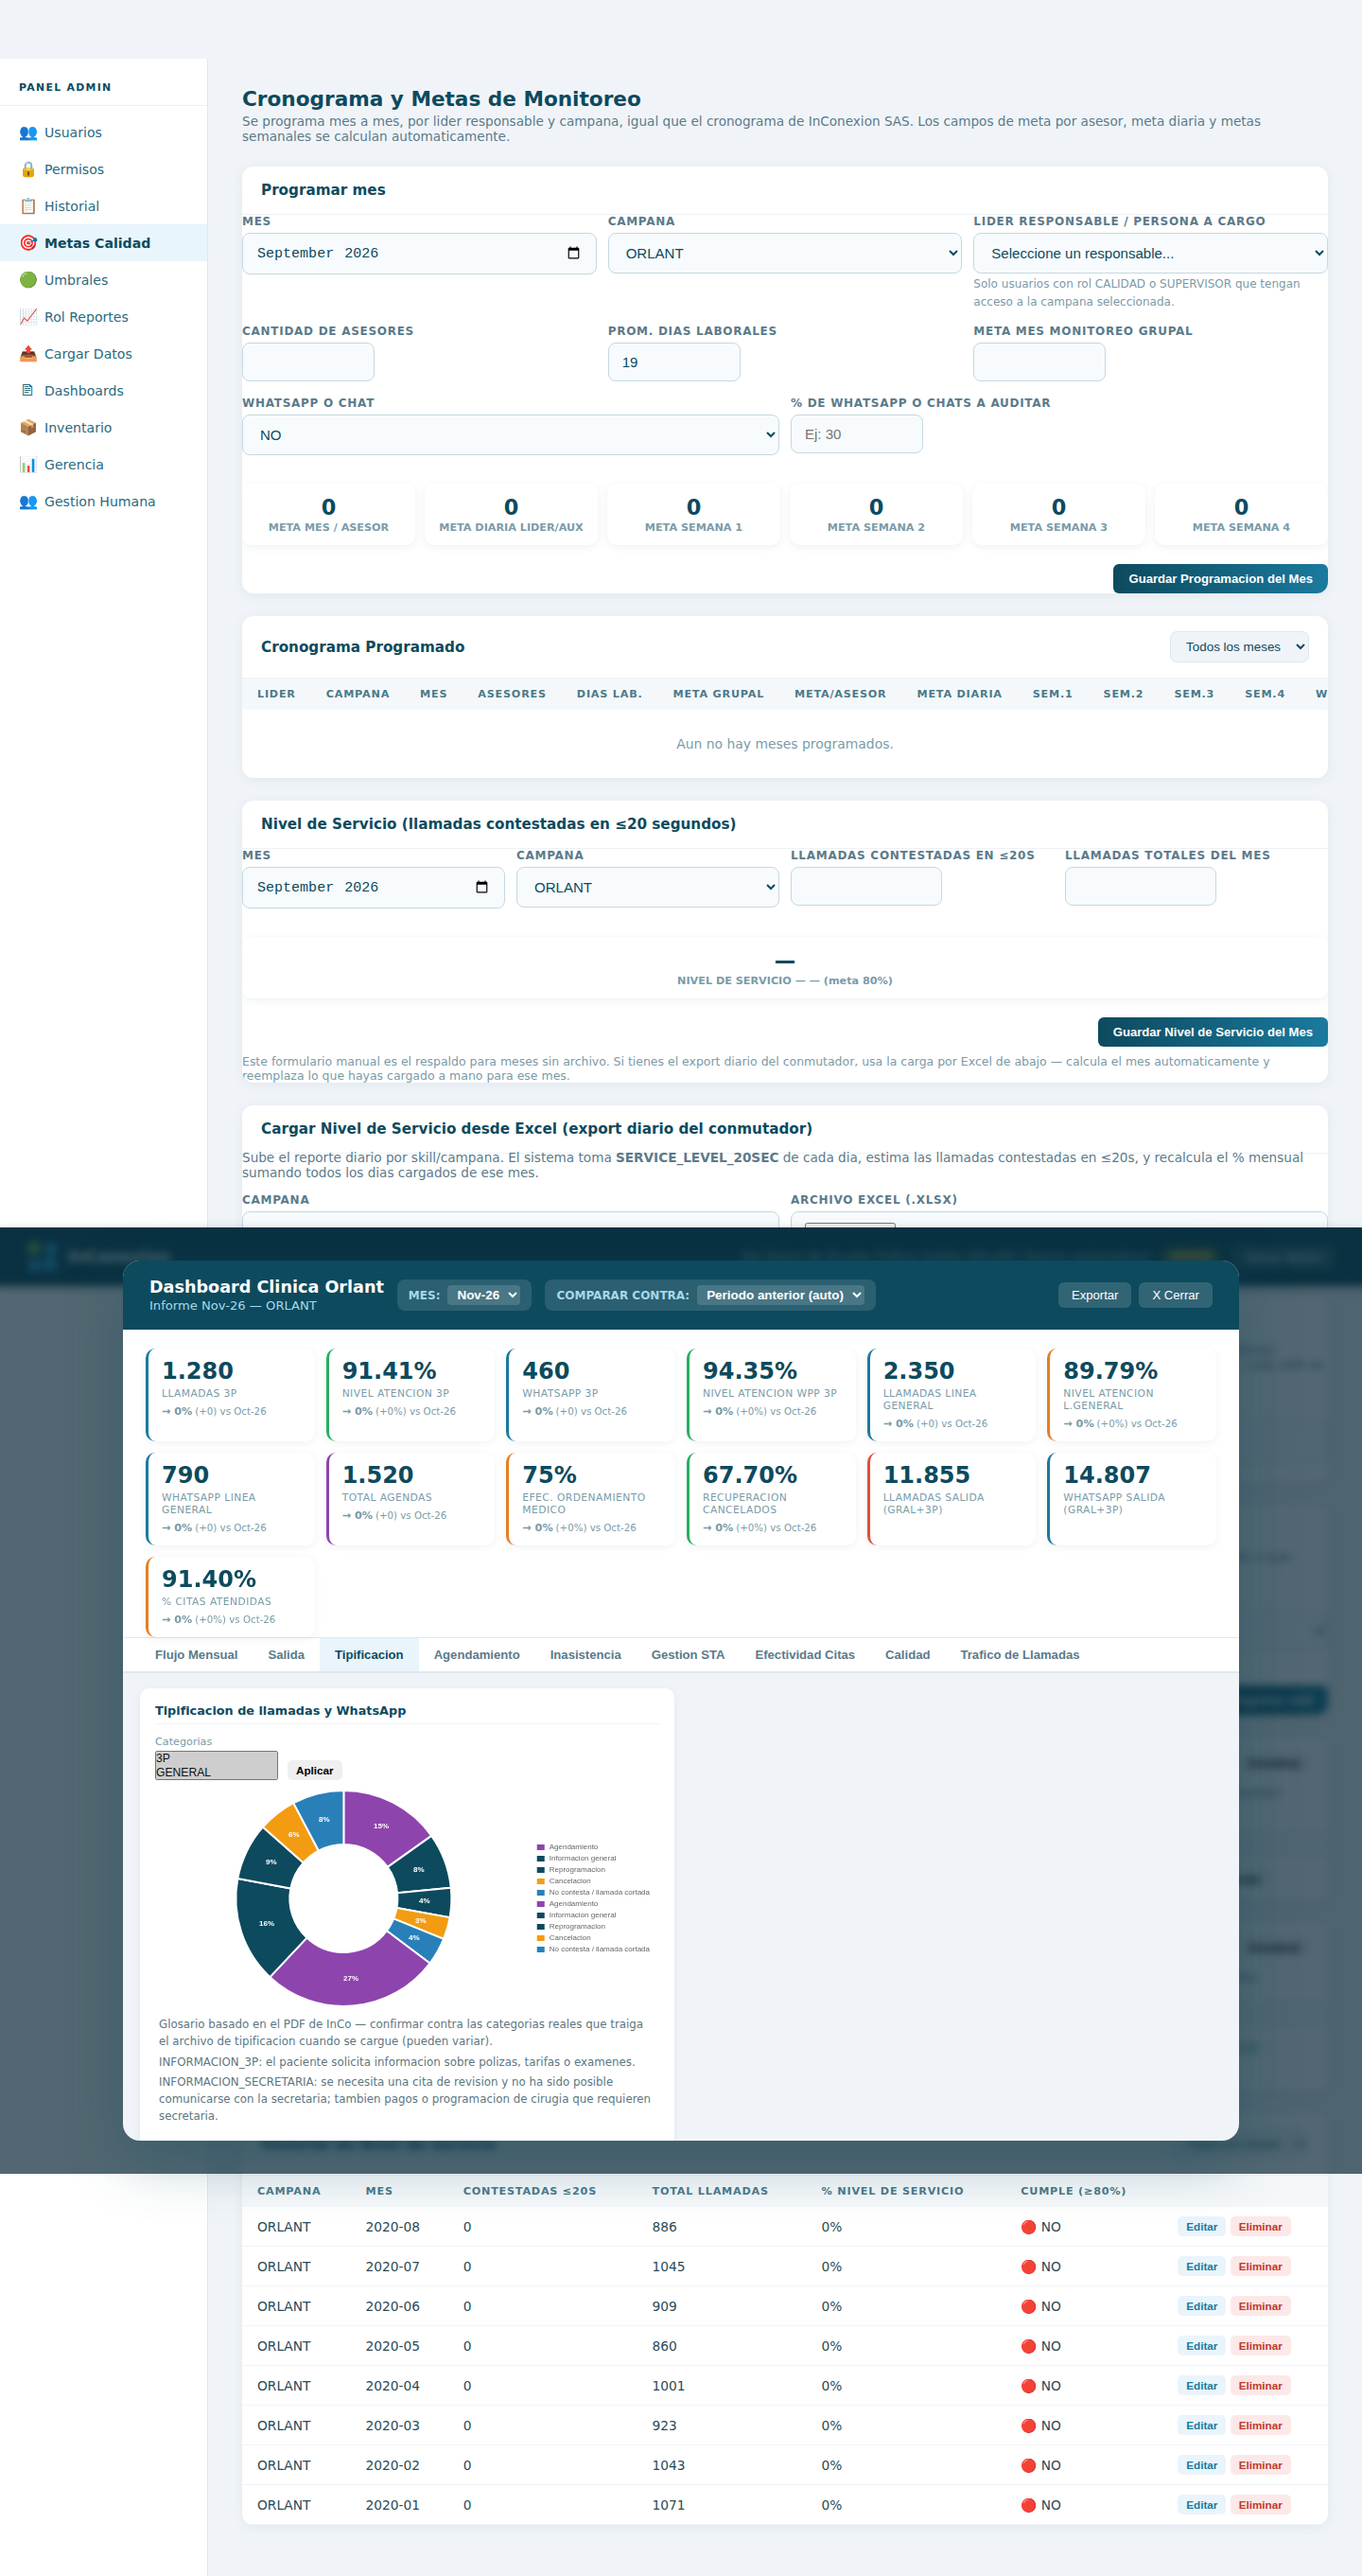
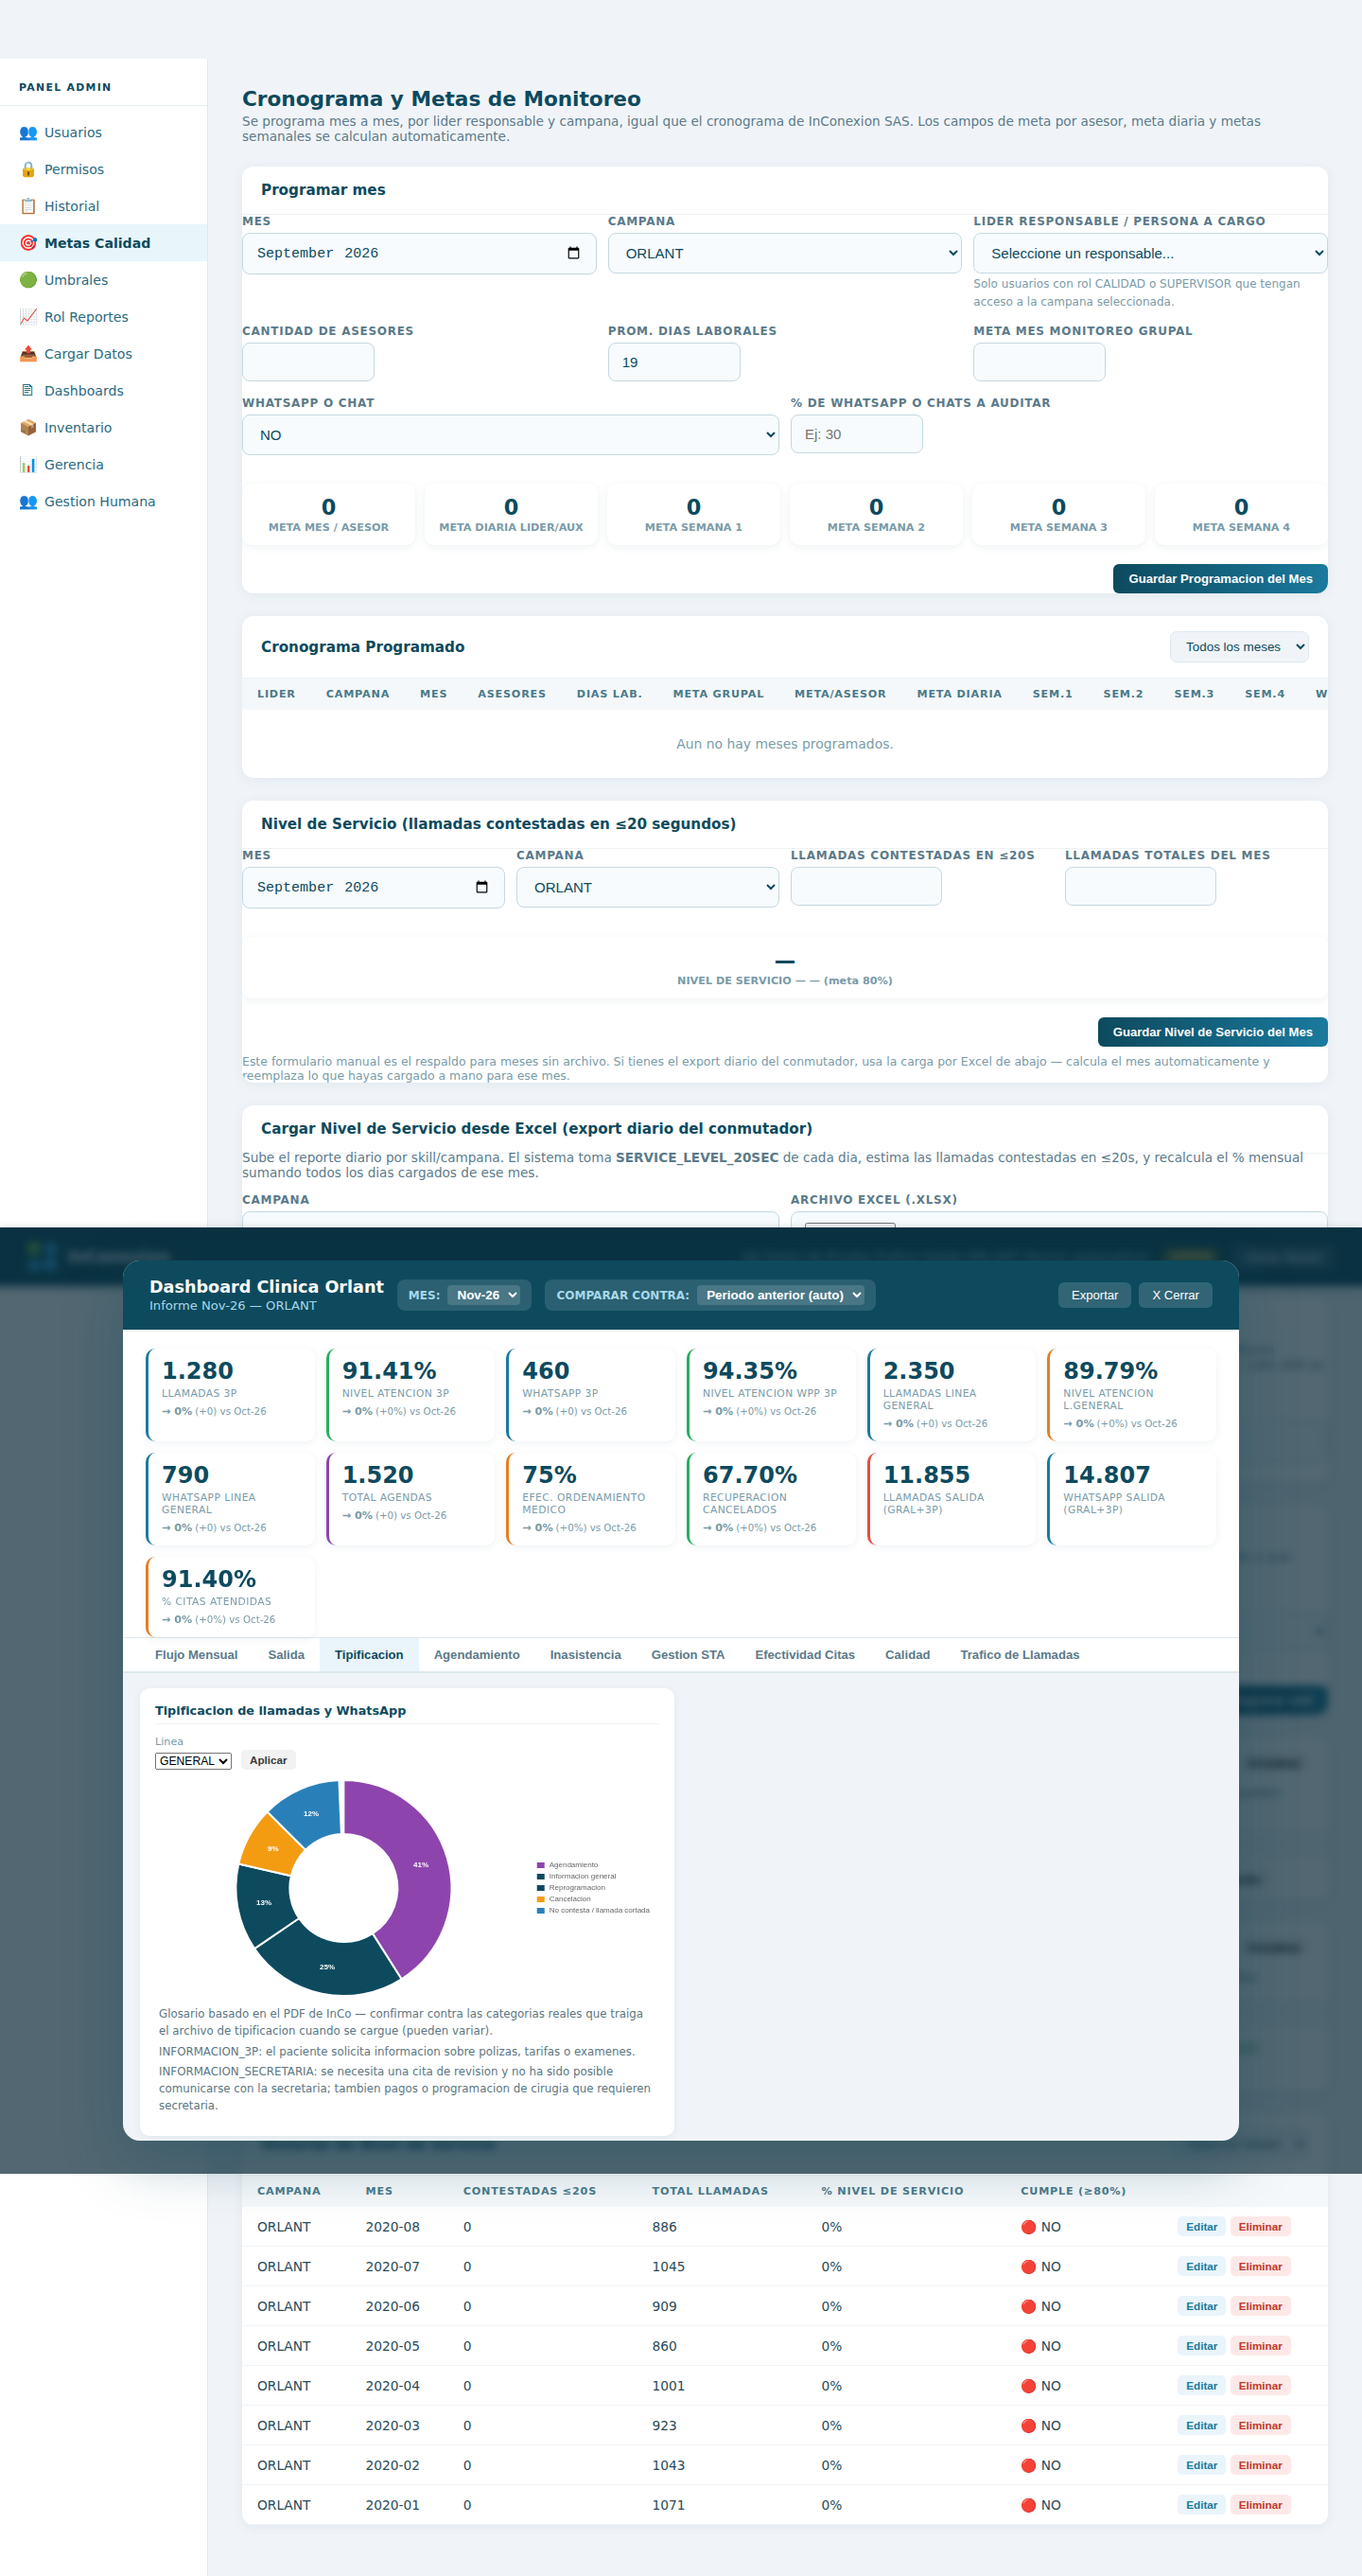
docs(progress): cierre Fase 34 -- fix Tipificacion + datos de prueba vivos
Captura de Tipificacion reemplazada (ya no muestra categorias duplicadas
-- confirmado en produccion real, selector de linea funcionando). Cierre
en PROGRESS.md: por que se dejo la data de prueba visible en produccion
a proposito (pedido explicito de InCo), y el hallazgo real del alcance de
aislamiento -- 2 pantallas administrativas (Mapeo de Skills, Historial de
Nivel de Servicio sin filtro de campana) SI combinan campanas sin scoping,
a diferencia de los dashboards de cliente y los exportes, que si aislan
correctamente.

Changed region(s): [[0.0938, 0.6558, 0.4688, 0.8431], [0.375, 0.7182, 0.4688, 0.7494]]

diff --git a/PROGRESS.md b/PROGRESS.md
@@ -1934,3 +1934,94 @@ final del run — de solo lectura, ninguna fila real de ORLANT se tocó.
   esta fase (vacío de datos ya conocido).
 - El defecto cosmético del eje Y de Inasistencia (punto flotante) queda
   para una fase aparte.
+
+---
+
+## Fase 34 — Fix: Tipificación duplicaba categorías en el pie + datos de prueba dejados visibles a propósito (PR #70, 2026-09-18)
+
+Pedido de InCo tras revisar las capturas de la Fase 33: el pie de
+Tipificación combinaba 3P+General por defecto (`filtroCampo:'linea'` con
+el multi-select genérico, ambas líneas seleccionadas de entrada) — como
+comparten nombres de categoría, cada una salía **duplicada** en la
+leyenda (10 porciones en vez de 5).
+
+**Fix — Opción A** (selector de una línea a la vez, mismo patrón que
+Salida, no Opción B de sumar duplicados): el PDF original ya mostraba esto
+como 2 pasteles separados por línea, así que es fiel al pedido, no una
+desviación. Nuevo tipo de filtro `'unico'` (`dashboard-generic.js`) +
+`gdValorFiltroUnico` (`gd-filtro-logic.js`, mismo patrón que
+`gdSerieSeleccionada`). Migración nueva `dashboards_config_orlant_tipificacion_unico_v1`
+(`db.js`, ORLANT ya existe en producción). Tests: caso exacto del bug
+(mismo nombre de categoría en ambas líneas → nunca duplicado tras
+filtrar) + 2 de la migración. Suite 249/249, `npm audit` limpio.
+
+**Verificado en producción real**: Playwright confirmó `tipificacionDefaultSinDuplicadosOk`,
+`tipificacionSelectorLineaOk` y `tipificacionCambioLineaSinDuplicadosOk` —
+la vista por defecto y el cambio de línea (3P↔General) nunca repiten una
+categoría. Captura reemplazada: `docs/capturas-demo/orlant-tipificacion-confirmacion-2026-09-18.png`
+(la versión anterior, con el bug, queda solo en el historial de git del
+PR #69 como evidencia del "antes").
+
+### Datos de prueba dejados visibles a propósito en producción
+
+A diferencia de la Fase 33, InCo pidió esta vez **no borrar** el skill y
+las cargas de prueba al terminar, para poder entrar él mismo a revisar las
+gráficas con datos reales fluyendo. Siguen en producción:
+
+- Skill `PRUEBA_QA_GRAFICAS_ORLANT` → mapeado a campaña `ORLANT`.
+- Tráfico: 8 filas diarias (una por mes, ene–ago **2020**) + su agregado
+  mensual en `calidad_nivel_servicio`.
+- Salida: 1 carga (`dashboard_cargas`, cliente `ORLANT`, sección `salida`,
+  periodo **2020-07**, 31 filas diarias).
+
+El workflow `qa-datos-prueba-trafico-salida-orlant.yml` ganó un input
+`borrar_al_final` (default `true`) — esta corrida se disparó con
+`borrar_al_final=false`. El usuario temporal de QA (rol ADMIN) **sí** se
+borró como siempre (nunca queda una cuenta ADMIN huérfana en producción,
+sin importar este input).
+
+**Nombre y periodo inconfundiblemente ficticios**: `PRUEBA_QA_GRAFICAS_ORLANT`
+no se parece a ningún patrón real de SKILL_NAME de Wolkvox, y el año 2020
+es anterior a que esta plataforma o esta campaña existieran — nadie puede
+confundirlos con datos reales de Orlant (oct/nov-2026 en adelante) si los
+ve sin este contexto.
+
+**Aislamiento — confirmado con matices, no 100% limpio**: dentro del
+dashboard de ORLANT y en cualquier vista de otro cliente (Gerencia,
+Aurora, HLM, exportes Excel/PDF de cualquier dashboard) el aislamiento es
+completo — cada fuente de datos está scopeada por `cliente`/`campana`, y
+se confirmó revisando cada endpoint involucrado. **Pero se encontraron 2
+pantallas administrativas (no un "reporte" de negocio, solo accesibles con
+permiso de Cargar Datos o rol ADMIN) que sí combinan campañas sin
+filtro**:
+
+1. `GET /calidad/trafico/skills` (tabla "Mapeo de Skills → Campaña",
+   pantalla Metas Calidad) — lista TODOS los skills de TODAS las campañas
+   sin scoping; el skill de prueba aparece ahí mezclado con los reales.
+2. `GET /calidad/nivel-servicio` sin `?campana=` (tabla "Historial de
+   Nivel de Servicio", misma pantalla) — para un ADMIN completo, devuelve
+   TODAS las filas de `calidad_nivel_servicio` de TODAS las campañas; las
+   8 filas de prueba (2020) aparecen ahí. Se ve tal cual en las 3 capturas
+   de esta fase y de la Fase 33 (la tabla al pie de cada captura).
+
+Ninguna de las dos es una vista que InCo use para revisar resultados de
+negocio (son pantallas de administración técnica de la plataforma, no
+dashboards de cliente ni reportes), y `GET /dashboard/cargas` (la lista de
+cargas de Salida) sí queda correctamente scopeada por cliente en el flujo
+real de la UI. Aun así, no es un aislamiento del 100% como se pidió
+confirmar — queda anotado aquí explícitamente en vez de reportarlo como
+resuelto. No se tocó en esta fase (no es trivial: requeriría decidir cómo
+scopear esas 2 pantallas por campaña, cambio de alcance mayor).
+
+### Cómo borrar esta data de prueba cuando InCo termine de revisarla
+
+Volver a correr `qa-datos-prueba-trafico-salida-orlant.yml` con
+`borrar_al_final=true` (el default), o borrarla a mano — mismas 4
+sentencias que ya usa el paso "Borrar los datos de prueba" del workflow
+(`calidad_nivel_servicio_diario`/`calidad_nivel_servicio` por skill/mes,
+`trafico_skill_mapeo`, `dashboard_cargas` por cliente+sección+periodo).
+También se reemplaza sola en cuanto InCo registre el skill real de Wolkvox
+y suba el primer archivo real: el mapeo por SKILL_NAME es 1 a 1, así que
+un skill real nuevo no choca con `PRUEBA_QA_GRAFICAS_ORLANT` (nombres
+distintos) — ambos convivirían hasta que alguien borre el de prueba a
+mano.
